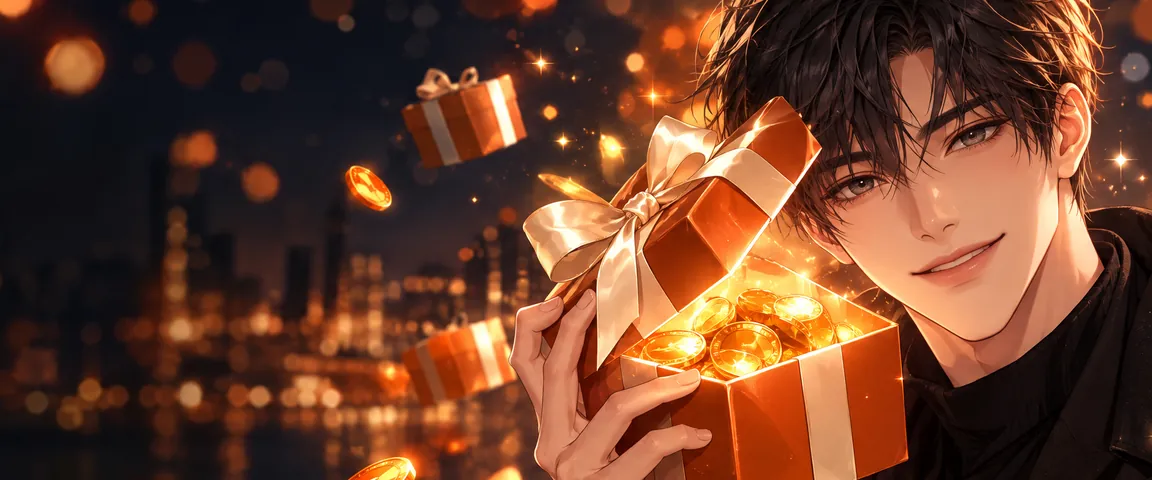
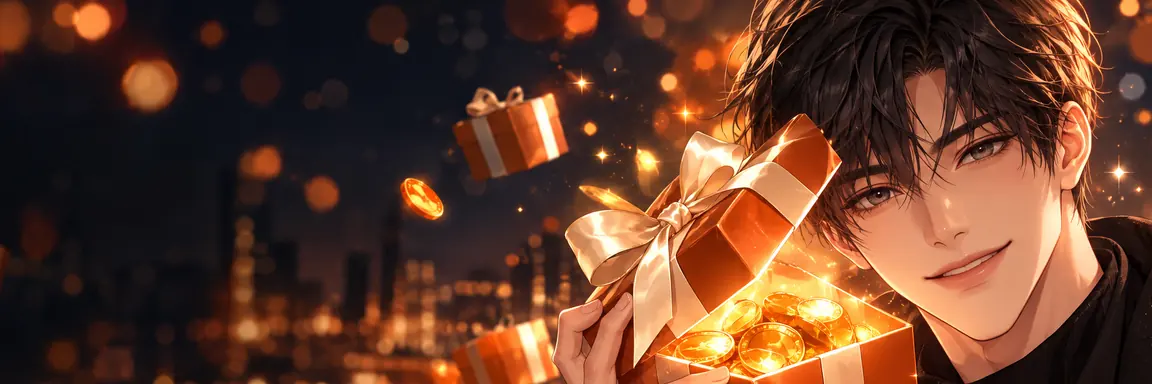
폰 배너 세로를 줄임(2.4:1 → 3:1) — 선물·전화·미로 그림을 3:1 로 다시 잘라 머리가 잘리지 않게

diff --git a/apps/web/components/promo-banner.tsx b/apps/web/components/promo-banner.tsx
@@ -6,7 +6,7 @@ const CTA = { background: 'var(--color-white)', color: 'var(--color-black)', bor
 
 /**
  * 힉스필드 그림이 꽉 채우는 배너 — 홈과 미로가 함께 쓴다(2026-09-30). 코드에 둔 고정 안내라 글은 번역된 채로 넘겨받는다.
- * 그림은 21:9 를 잘라 쓴다 — 폰은 2.4:1(`{art}-m.webp`), 컴퓨터는 6:1 띠(`{art}.webp`). <picture> 가 폭에 맞는 한 장만 받는다.
+ * 그림은 21:9 를 잘라 쓴다 — 폰은 3:1(`{art}-m.webp`), 컴퓨터는 6:1 띠(`{art}.webp`). <picture> 가 폭에 맞는 한 장만 받는다.
  */
 export function PromoBanner({ art, eyebrow, title, body, cta, textWidth, artX }: {
   art: string; eyebrow: string; title: string; body: string; cta?: { href: string; label: string }
@@ -22,7 +22,7 @@ export function PromoBanner({ art, eyebrow, title, body, cta, textWidth, artX }:
         <source media="(min-width: 1024px)" srcSet={`/${art}.webp`} width={2304} height={384} />
         {/* 꾸밈이라 읽지 않는다. */}
         {/* eslint-disable-next-line @next/next/no-img-element -- 배너 한 장, next/image 최적화가 필요 없다 */}
-        <img src={`/${art}-m.webp`} alt="" aria-hidden width={1152} height={480} decoding="async" className={styles.art} />
+        <img src={`/${art}-m.webp`} alt="" aria-hidden width={1152} height={384} decoding="async" className={styles.art} />
       </picture>
       <div className={styles.text}>
         <p className={styles.eyebrow}>{eyebrow}</p>

diff --git a/apps/web/components/promo-banner.module.css b/apps/web/components/promo-banner.module.css
@@ -1,7 +1,7 @@
 /* 배너(홈·미로, 2026-09-30) — 헤더와 캐릭터 사이. 힉스필드 그림이 꽉 채우고(제타·위프 배너처럼), 글은 왼쪽을 어둡게 누른 위에 얹는다.
-   폰은 2.4:1 낮은 띠에 제목만(9/30 요청: 폰에도 넣되 온라인에서 보기에 너무 커서 줄임), 컴퓨터는 6:1 띠에 설명까지. */
+   폰은 3:1 낮은 띠에 제목만(9/30 요청: 폰에서 세로가 너무 커서 2.4:1 → 3:1 로 줄임), 컴퓨터는 6:1 띠에 설명까지. */
 /* 모서리는 overflow 대신 clip-path 로 자른다 — overflow:hidden 이면 aspect-ratio 가 높이를 고정해 긴 글이 잘린다. 이렇게 하면 글이 길 때 배너가 늘어난다. */
-.banner { position: relative; isolation: isolate; display: flex; align-items: center; aspect-ratio: 12 / 5;
+.banner { position: relative; isolation: isolate; display: flex; align-items: center; aspect-ratio: 3 / 1;
   margin: 0 var(--gutter) var(--space-5); padding: 12px 14px; border-radius: 14px; clip-path: inset(0 round 14px); background: var(--color-surface-1); }
 .art { position: absolute; inset: 0; width: 100%; height: 100%; object-fit: cover; object-position: center; }
 .banner::after { content: ''; position: absolute; inset: 0;
